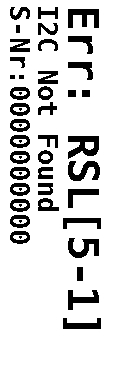
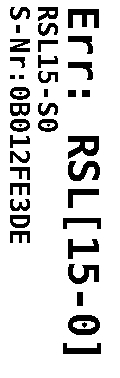
ICA2407 i2c Ok

diff --git a/TM_V2/Source/usv_test_util.cpp b/TM_V2/Source/usv_test_util.cpp
@@ -3,6 +3,11 @@
 #include <filesystem>
 #include <cmath>
 #include <cctype>
+#include <termios.h>
+#include <sys/select.h>
+#include <sys/time.h>
+#include <sys/types.h>
+#include <errno.h>
 
 #define __uart_ErrorCnt 3
 extern LabDevice MyLabDevice;
@@ -1013,7 +1018,7 @@ uint8_t USV_TEST_UTIL_V2::RSL_UART_EEPROM(__temp__register & _M2){
     
     return FuncStatus::running;
 }
-uint8_t USV_TEST_UTIL_V2::RSL_UART_EEPROM_RTC_I2C(__temp__register & _M2){
+uint8_t USV_TEST_UTIL_V2::RSL_EEPROM_RTC_I2C(__temp__register & _M2){
     static ICA_justEUI myICA2308;
     //myInterActReg.TR.currentTestNo=TestResult::T_EEPROM_I2C;
     switch (_M2.m2State)
@@ -1046,8 +1051,10 @@ uint8_t USV_TEST_UTIL_V2::RSL_UART_EEPROM_RTC_I2C(__temp__register & _M2){
         break;
         case 2:
         {
+
             for(int i=0;i<8;i++)
                 myBoard.myEEPROM.myData.EUI[i]=myICA2308.EUI_Buffer[i];
+            myBoard.myEEPROM.isKnownIC();
             myBoard.myEEPROM.ShowEUI(); //just for test  
             myInterActReg.TR.EUI_str=myBoard.myEEPROM.myData.getEUI_Str();
             showLog(myInterActReg.TR.EUI_str+"\n");
@@ -1517,6 +1524,112 @@ uint8_t USV_TEST_UTIL_V2::RSL_JUST_ON(__temp__register & _M2){
     return FuncStatus::running;
 }
 
+uint8_t USV_TEST_UTIL_V2::RSL_POWER_ON(__temp__register & _M2){
+    switch(_M2.m2State){
+            case 0: //set Power On *********************************************
+            {   
+                //myInterActReg.TR.currentTestNo=TestResult::T_Just_On;             
+                //showLog("\nDo RSL_Just_On:"+ std::to_string(myInterActReg.TR.currentTestNo));
+                myTestDevice.setRelay(USV_Test_Interface::Relays::MPower,true);
+                myTestDevice.setRelay(USV_Test_Interface::Relays::AR,true);                
+                _M2.m2State++;
+            }     
+            break;
+            case 1:
+            case 2:
+            case 3:
+            case 4:
+            case 5:
+            case 6:
+            case 7:
+            case 8:
+            case 9:
+            case 10:
+                _M2.m2State++;
+            break;    
+            default: return FuncStatus::success; 
+            
+    }
+    return FuncStatus::running;
+}
+uint8_t USV_TEST_UTIL_V2::RSL_IBIS_LoopBackCheck(__temp__register & _M2){
+    switch(_M2.m2State){
+        case 0:
+        {
+            const std::string tx = "ICA IBIS LoopBack\n";
+            int fd = open(myArg.ttyName, O_RDWR | O_NOCTTY | O_SYNC);
+            if (fd < 0) {
+                showLog(std::string("Open serial failed: ") + strerror(errno));
+                return showError(ERROR::ucUartFailed, _M2);
+            }
+            struct termios tty;
+            memset(&tty, 0, sizeof tty);
+            if (tcgetattr(fd, &tty) != 0) {
+                close(fd);
+                showLog(std::string("tcgetattr failed: ") + strerror(errno));
+                return showError(ERROR::ucUartFailed, _M2);
+            }
+            cfsetospeed(&tty, B9600);
+            cfsetispeed(&tty, B9600);
+            tty.c_cflag = (tty.c_cflag & ~CSIZE) | CS8; // 8-bit chars
+            tty.c_iflag &= ~IGNBRK; // disable break processing
+            tty.c_lflag = 0; // no signaling chars, no echo, no canonical processing
+            tty.c_oflag = 0; // no remapping, no delays
+            tty.c_cc[VMIN]  = 0; // non-blocking read
+            tty.c_cc[VTIME] = 20; // 2.0 seconds read timeout
+            tty.c_iflag &= ~(IXON | IXOFF | IXANY); // shut off xon/xoff ctrl
+            tty.c_cflag |= (CLOCAL | CREAD);
+            tty.c_cflag &= ~(PARENB | PARODD);
+            tty.c_cflag &= ~CSTOPB;
+            tty.c_cflag &= ~CRTSCTS;
+            if (tcsetattr(fd, TCSANOW, &tty) != 0) {
+                close(fd);
+                showLog(std::string("tcsetattr failed: ") + strerror(errno));
+                return showError(ERROR::ucUartFailed, _M2);
+            }
+
+            // flush
+            tcflush(fd, TCIOFLUSH);
+
+            ssize_t written = write(fd, tx.c_str(), tx.size());
+            fsync(fd);
+
+            std::string rx;
+            if (written > 0) {
+                // wait briefly and read what's available
+                fd_set rfds;
+                struct timeval tv;
+                tv.tv_sec = 1; tv.tv_usec = 0;
+                FD_ZERO(&rfds);
+                FD_SET(fd, &rfds);
+                int sel = select(fd+1, &rfds, NULL, NULL, &tv);
+                if (sel > 0 && FD_ISSET(fd, &rfds)) {
+                    char buf[256];
+                    ssize_t n = read(fd, buf, sizeof(buf));
+                    if (n > 0) rx.assign(buf, buf + n);
+                }
+            }
+            close(fd);
+
+            // strip CR/LF from rx
+            while (!rx.empty() && (rx.back() == '\r' || rx.back() == '\n')) rx.pop_back();
+
+            std::cout << "IBIS TX: '" << tx << "' RX: '" << rx << "'\n";
+            if (rx == tx) {
+                showLog("IBIS Loopback OK");
+                _M2.m2State++;
+            } else {
+                showLog("IBIS Loopback FAILED");
+                return showError(ERROR::ucUartFailed, _M2);
+            }
+        }
+        break;
+        case 1: return FuncStatus::success;    
+        default: return FuncStatus::failed;
+    }
+    return FuncStatus::running;
+}
+
 void USV_TEST_UTIL_V2::run_Test_Func(){
     //uint8_t _key=0;
     __temp__register __tr;
@@ -1594,7 +1707,7 @@ void USV_TEST_UTIL_V2::run_Test_Func(){
             case RSL_struct::RSL::VCC_Test: __funcResualt = RSL_VCC_Test(__tr); break;
             case RSL_struct::RSL::uC_Program: __funcResualt = RSL_uC_Program(__tr); break;
             case RSL_struct::RSL::Uart_EEPROM: __funcResualt = RSL_UART_EEPROM(__tr); break;            
-            case RSL_struct::RSL::uart_EEPROM_RTC_I2C: __funcResualt = RSL_UART_EEPROM_RTC_I2C(__tr); break;
+            case RSL_struct::RSL::EEPROM_RTC_I2C: __funcResualt = RSL_EEPROM_RTC_I2C(__tr); break;
             case RSL_struct::RSL::ChargeTest: __funcResualt = RSL_ChargeTest(__tr); break;
             case RSL_struct::RSL::FlyBackTest: __funcResualt = RSL_FlyBackTest(__tr); break;
             case RSL_struct::RSL::WaitToOutSWOffTest: __funcResualt = RSL_WaitToOutSWOffTest(__tr) ; break;
@@ -1605,10 +1718,10 @@ void USV_TEST_UTIL_V2::run_Test_Func(){
                 LabelPrint();
                 __tr.RSL_state=RSL_struct::RSL::Stop; 
             }
-            case RSL_struct::RSL::justOn: __funcResualt = RSL_JUST_ON(__tr);
-            case RSL_struct::RSL::T_PowerOn
-            break;
+            case RSL_struct::RSL::justOn: __funcResualt = RSL_JUST_ON(__tr);break;
+            case RSL_struct::RSL::powerOn: __funcResualt = RSL_POWER_ON(__tr);break;        
             case RSL_struct::RSL::EndFailed: __tr.RSL_state=RSL_struct::RSL::Stop; break;
+            case RSL_struct::RSL::IBIS_LoopBackCheck: __funcResualt = RSL_IBIS_LoopBackCheck(__tr); break;
             default:
                 showLog("\nEND Wait to press Key.\n");        
                 __tr.RSL_state=RSL_struct::RSL::Stop;

diff --git a/TM_V2/Source/usv_test_util.h b/TM_V2/Source/usv_test_util.h
@@ -71,7 +71,7 @@ struct __temp__register{
     bool __isSupperCapsOnBoard=false;
  };
 
-enum TestResult{
+enum __TestResult{
     T_AR_Off=1
     ,T_AR_On
     ,T_VCC_Test
@@ -85,8 +85,6 @@ enum TestResult{
     ,T_DisChargeTest
     ,T_EEPROM_Uart_Save
     ,T_Just_On
-    ,T_PowerOn
-
 };
 
 enum FuncStatus {
@@ -257,14 +255,15 @@ class USV_TEST_UTIL_V2{
         uint8_t RSL_VCC_Test(__temp__register & _M2);
         uint8_t RSL_uC_Program(__temp__register & _M2);
         uint8_t RSL_UART_EEPROM(__temp__register & _M2);
-        uint8_t RSL_UART_EEPROM_RTC_I2C(__temp__register & _M2);
+        uint8_t RSL_EEPROM_RTC_I2C(__temp__register & _M2);
         uint8_t RSL_ChargeTest(__temp__register & _M2);
         uint8_t RSL_FlyBackTest(__temp__register & _M2);
         uint8_t RSL_WaitToOutSWOffTest(__temp__register & _M2);
         uint8_t RSL_DisChargeTest(__temp__register & _M2);
         uint8_t RSL_UART_Save_EEPROM(__temp__register & _M2);
         uint8_t RSL_JUST_ON(__temp__register & _M2);
-        
+        uint8_t RSL_POWER_ON(__temp__register & _M2);
+        uint8_t RSL_IBIS_LoopBackCheck(__temp__register & _M2);
         
 
 };

diff --git a/TM_V2/Source/getBasic.h b/TM_V2/Source/getBasic.h
@@ -24,7 +24,7 @@ struct RSL_struct{
     ,VCC_Test
     ,uC_Program
     ,Uart_EEPROM
-    ,uart_EEPROM_RTC_I2C
+    ,EEPROM_RTC_I2C
     ,uart_EEPROM_Save
     ,ChargeTest
     ,FlyBackTest
@@ -33,6 +33,8 @@ struct RSL_struct{
     ,EndSuccess
     ,EndFailed
     ,justOn
+    ,powerOn
+    ,IBIS_LoopBackCheck
     ,Stop
     };
     std::string getRSLStr(uint8_t _step){
@@ -42,7 +44,7 @@ struct RSL_struct{
             case VCC_Test: return "VCC_Test";
             case uC_Program: return "uC_Program";
             case Uart_EEPROM: return "Uart_EEPROM";
-            case uart_EEPROM_RTC_I2C: return "uart_EEPROM_RTC_I2C";
+            case EEPROM_RTC_I2C: return "EEPROM_RTC_I2C";
             case uart_EEPROM_Save: return "uart_EEPROM_Save";
             case ChargeTest: return "ChargeTest";
             case FlyBackTest: return "FlyBackTest";
@@ -51,6 +53,8 @@ struct RSL_struct{
             case EndSuccess: return "End-Success";                
             case EndFailed: return "End-Failed";                
             case justOn: return "justOn";
+            case powerOn: return "powerOn";
+            case IBIS_LoopBackCheck: return "IBIS_LoopBackCheck";
             case Stop: return "Stop";                
             default:
                 return "XX";

diff --git a/TM_V2/Source/TestFunction/ICA_justEUI.cpp b/TM_V2/Source/TestFunction/ICA_justEUI.cpp
@@ -1,5 +1,9 @@
 #include "ICA_justEUI.h"
 bool ICA_justEUI::ReadEUI(){
+    if (myEEPROM.readBlock(0xF8, 8, EUI_Buffer))
+        return true;
+    //else
+    //    return false;
     if (rtc.readBlock(0xF0, 8, EUI_Buffer))
         return true;
     else
@@ -79,6 +83,7 @@ bool MCP79412::writeBlock(uint8_t startReg, const std::vector<uint8_t>& data) {
 bool EEPROM24xx256::readBlock(uint8_t startReg, uint8_t length, std::vector<uint8_t>& buffer) {
     buffer.clear();
     int file;
+    
     if (!openBus(file)) return false;
 
     if (write(file, &startReg, 1) != 1) {

diff --git a/TM_V2/Source/getBasic.cpp b/TM_V2/Source/getBasic.cpp
@@ -669,7 +669,7 @@ bool CfgReader::parseRslStep(const std::string& token, RSL_struct::RSL& outStep)
     if (s == "VCC_Test") { outStep = RSL_struct::RSL::VCC_Test; return true; }
     if (s == "uC_Program") { outStep = RSL_struct::RSL::uC_Program; return true; }
     if (s == "Uart_EEPROM") { outStep = RSL_struct::RSL::Uart_EEPROM; return true; }
-    if (s == "uart_EEPROM_RTC_I2C") { outStep = RSL_struct::RSL::uart_EEPROM_RTC_I2C; return true; }
+    if (s == "EEPROM_RTC_I2C") { outStep = RSL_struct::RSL::EEPROM_RTC_I2C; return true; }
     if (s == "uart_EEPROM_Save") { outStep = RSL_struct::RSL::uart_EEPROM_Save; return true; }
     if (s == "ChargeTest") { outStep = RSL_struct::RSL::ChargeTest; return true; }
     if (s == "FlyBackTest") { outStep = RSL_struct::RSL::FlyBackTest; return true; }
@@ -678,6 +678,8 @@ bool CfgReader::parseRslStep(const std::string& token, RSL_struct::RSL& outStep)
     if (s == "EndSuccess") { outStep = RSL_struct::RSL::EndSuccess; return true; }
     if (s == "EndFailed") { outStep = RSL_struct::RSL::EndFailed; return true; }
     if (s == "justOn") { outStep = RSL_struct::RSL::justOn; return true; }
+    if (s== "powerOn") { outStep = RSL_struct::RSL::powerOn; return true; }
+    if (s== "IBIS_LoopBackCheck") { outStep = RSL_struct::RSL::IBIS_LoopBackCheck; return true; }
     if (s == "Stop") { outStep = RSL_struct::RSL::Stop; return true; }
     return false;
 }